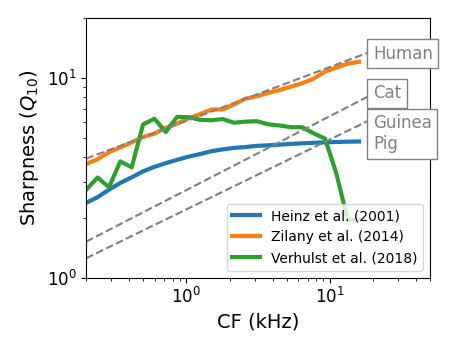
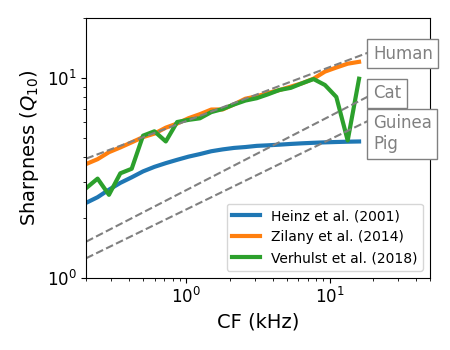
Working Fig 7b with new Verhulst model

Changed region(s): [[0.1867, 0.2, 0.8089, 0.6571]]

diff --git a/nofigure/tuning_curves/estimate_q10_bm_clicks.py b/nofigure/tuning_curves/estimate_q10_bm_clicks.py
@@ -9,9 +9,7 @@ import os, sys
 sys.path.append(os.getcwd())
 import util as cfg
 import numpy as np
-sys.path.append('/home/daniel/apc_code/scripts/Verhulstetal2018Model')
-sys.path.append('/home/daniel/CoNNear_IHC-ANF/')
-from run_model2018 import Verhulst2018Cochlea
+from apcmodels.external.verhulst2018.run_verhulst import run_verhulst2018_cochlea
 
 
 def synthesize_click(dur_click=0.08 / 1000, dur_pre_click=1/1000, dur_post_click=30/1000, fs=int(200e3)):
@@ -53,9 +51,7 @@ def calculate_verhulst2018_bm_response(_input, fs, **kwargs):
         - fs is not currently used
     """
     # Run firing rate simulations
-    response = Verhulst2018Cochlea(_input, fs)
-    vm = response[0]
-    cfs = response[2]
+    vm, cfs = run_verhulst2018_cochlea(_input, fs)
     vm = np.flip(vm, axis=1)  # flip tonotopic axis left-right
     vm = vm.T  # transpose to (n_cf, n_sample)
 
@@ -90,7 +86,7 @@ def calc_Q(vm, cfs, fs):
 fs = int(500e3)
 click = synthesize_click(fs=fs)
 p0 = 2e-5
-L = 50
+L = 40
 click = click*2*np.sqrt(2)*p0*10**(L/20)
 vm, model_cfs = calculate_verhulst2018_bm_response(click, fs)
 
